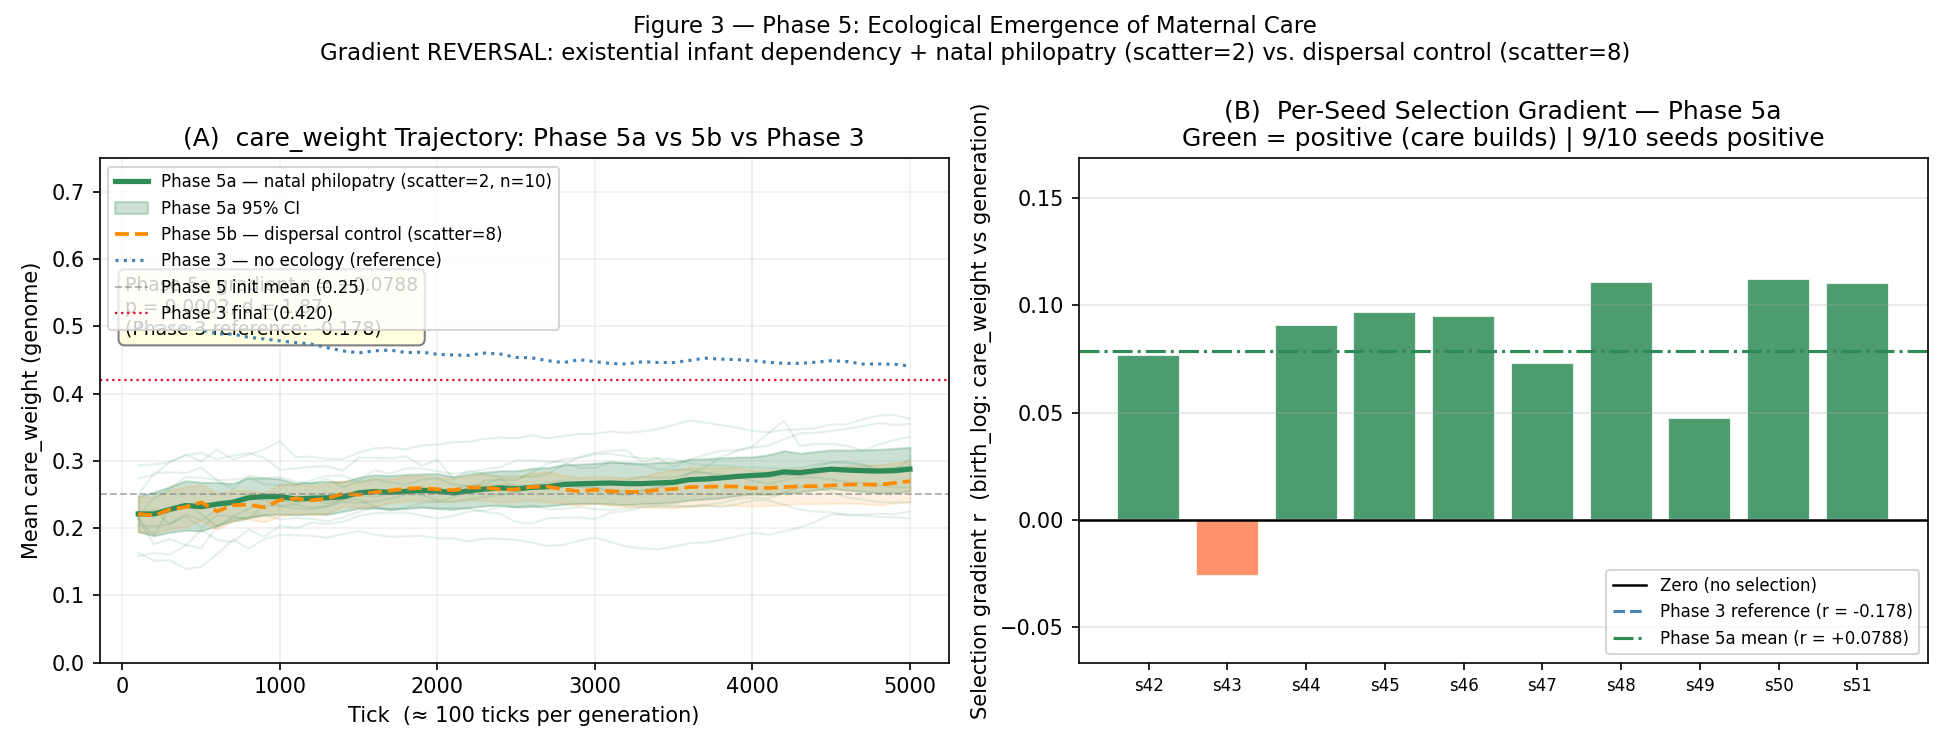
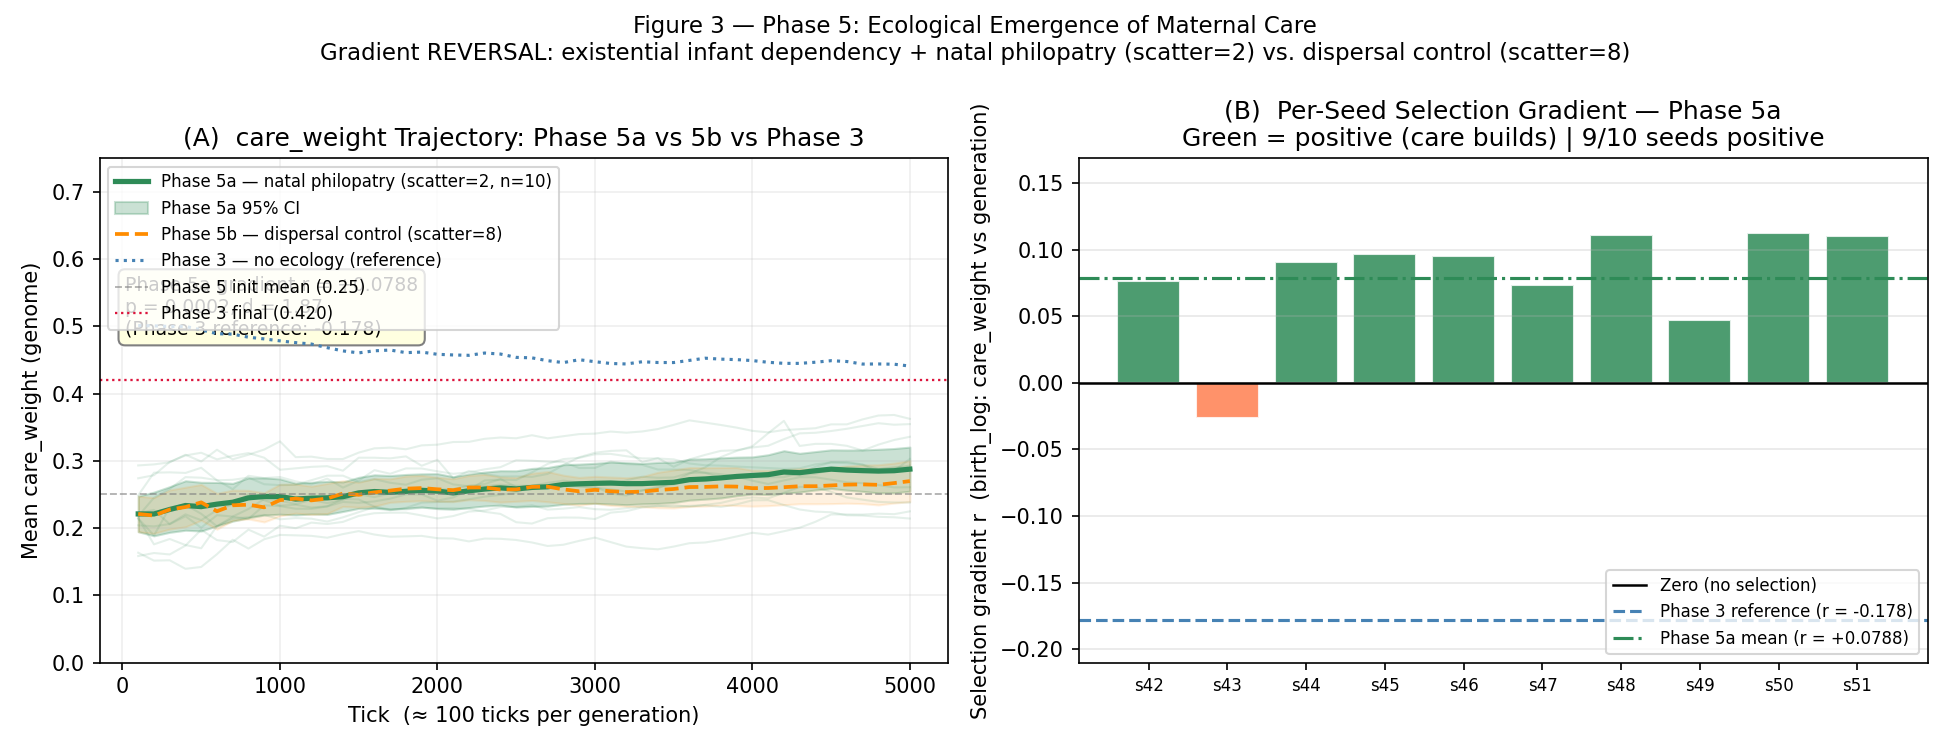
Update

diff --git a/experiments/phase5_emergence/run_multi_seed.py b/experiments/phase5_emergence/run_multi_seed.py
@@ -201,7 +201,7 @@ def plot_multi_seed_ci(
                          label="Phase 5a 95% CI")
     if ticks_c:
         ax1.plot(ticks_c, care_c_mean, color="darkorange", linewidth=1.8, linestyle="--",
-                 label="Phase 5b control (scatter=5)")
+                 label="Phase 5b control (scatter=8)")
     if p3_ticks:
         ax1.plot(p3_ticks, p3_care, color="steelblue", linewidth=1.8, linestyle=":",
                  label="Phase 3 mean (no ecology)", zorder=4)
@@ -450,7 +450,7 @@ def run_all(seeds: list[int] = SEEDS) -> None:
 
     # ── Control pass (5b) ─────────────────────────────────────────────────────
     print("=" * 55)
-    print("Phase 5b: Dispersal control (scatter=5)...")
+    print("Phase 5b: Dispersal control (scatter=8)...")
     print("=" * 55 + "\n")
 
     for seed in seeds:
@@ -486,7 +486,7 @@ def run_all(seeds: list[int] = SEEDS) -> None:
         zs_summaries.append({
             "seed":        seed,
             "window_rate": window.get("care_per_mother_tick_in_window", 0.0),
-            "assimulated": m.get("assimilation_signal", False),
+            "assimilated": m.get("assimilation_signal", False),
         })
         cp["completed_zs"].append(seed)
         cp["zs_run_dirs"]  = zs_run_dirs

diff --git a/experiments/phase5_emergence/run.py b/experiments/phase5_emergence/run.py
@@ -284,7 +284,7 @@ def _run_evolution(seed: int, stage: str = "evolution",
         plasticity_enabled=False,
         note=(
             "Phase 5a — Ecological Emergence. Near-zero care init (0–0.05). "
-            "infant_starvation_multiplier=3.0 makes B existential. "
+            "infant_starvation_multiplier=1.15 makes B existential. "
             "birth_scatter_radius=2 increases effective r via natal philopatry. "
             "Plasticity OFF — any care rise is pure genetic selection."
             if stage == "evolution" else
@@ -458,7 +458,7 @@ def run(seed: int = 42, stage: str = "evolution", source_dir: str = None) -> str
     stage:
       'survival_gate'  — quick 10-gen viability check (returns dict, not str)
       'evolution'      — 5a: full 50-gen, birth_scatter_radius=2
-      'control'        — 5b: full 50-gen, birth_scatter_radius=5 (dispersal control)
+      'control'        — 5b: full 50-gen, birth_scatter_radius=8 (dispersal control)
       'zeroshot'       — 5c: genetic assimilation test (requires source_dir)
     """
     if stage == "survival_gate":

diff --git a/experiments/make_publication_figures.py b/experiments/make_publication_figures.py
@@ -396,7 +396,7 @@ def figure3_phase5_reversal() -> None:
     )
     ax2.legend(fontsize=8, loc="lower right")
     ax2.grid(True, axis="y", alpha=0.3)
-    ax2.set_ylim(min(grads_g) * 1.4 - 0.03, max(grads_g) * 1.5)
+    ax2.set_ylim(min(min(grads_g) * 1.4 - 0.03, -0.21), max(grads_g) * 1.5)
 
     plt.tight_layout()
     path = os.path.join(OUT_DIR, "figure3_phase5_reversal.png")
